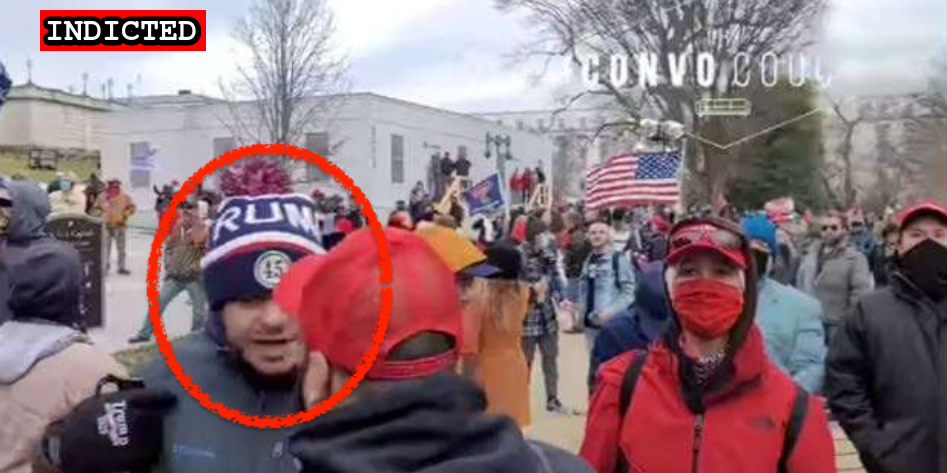
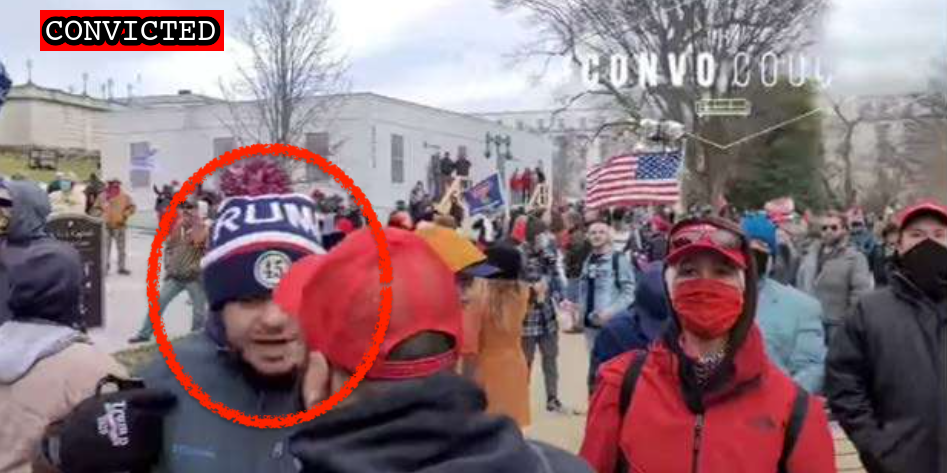
Khater conviction

Changed region(s): [[0.0306, 0.0, 0.245, 0.1184]]

diff --git a/docs/_suspects/julian-khater.md b/docs/_suspects/julian-khater.md
@@ -4,17 +4,19 @@ lastName: Khater
 hashtag: MuttonTrump
 aka:
 residence: Pennsylvania
-status: Indicted
+status: Convicted
 date: 2021-03-15
 charged: 2021-03-15
 indicted: 2021-03-17
-convicted:
+convicted: 2022-09-01
+acquitted:
 sentenced:
 dismissed:
 deceased:
 plea_hearing: 2022-09-01
-trial_date: 2022-10-05
-sentencing:
+trial_date:
+trial_type:
+sentencing: 2021-12-13
 age: 32
 occupation:
 affiliations:
@@ -35,6 +37,14 @@ published: true
 caseNumber: 1:21-cr-222
 videos:
 charges:
+  - code: 18 USC § 111(a)(1) and (b) and (2)
+    title: Assaulting, Resisting, or Impeding Certain Officers Using a Dangerous Weapon and Aiding and Abetting
+    url: https://www.law.cornell.edu/uscode/text/18/111
+    felony: true
+  - code: 18 USC § 111(a)(1) and (b) and (2)
+    title: Assaulting, Resisting, or Impeding Certain Officers Using a Dangerous Weapon and Aiding and Abetting
+    url: https://www.law.cornell.edu/uscode/text/18/111
+    felony: true
 sentence:
 ---
 
